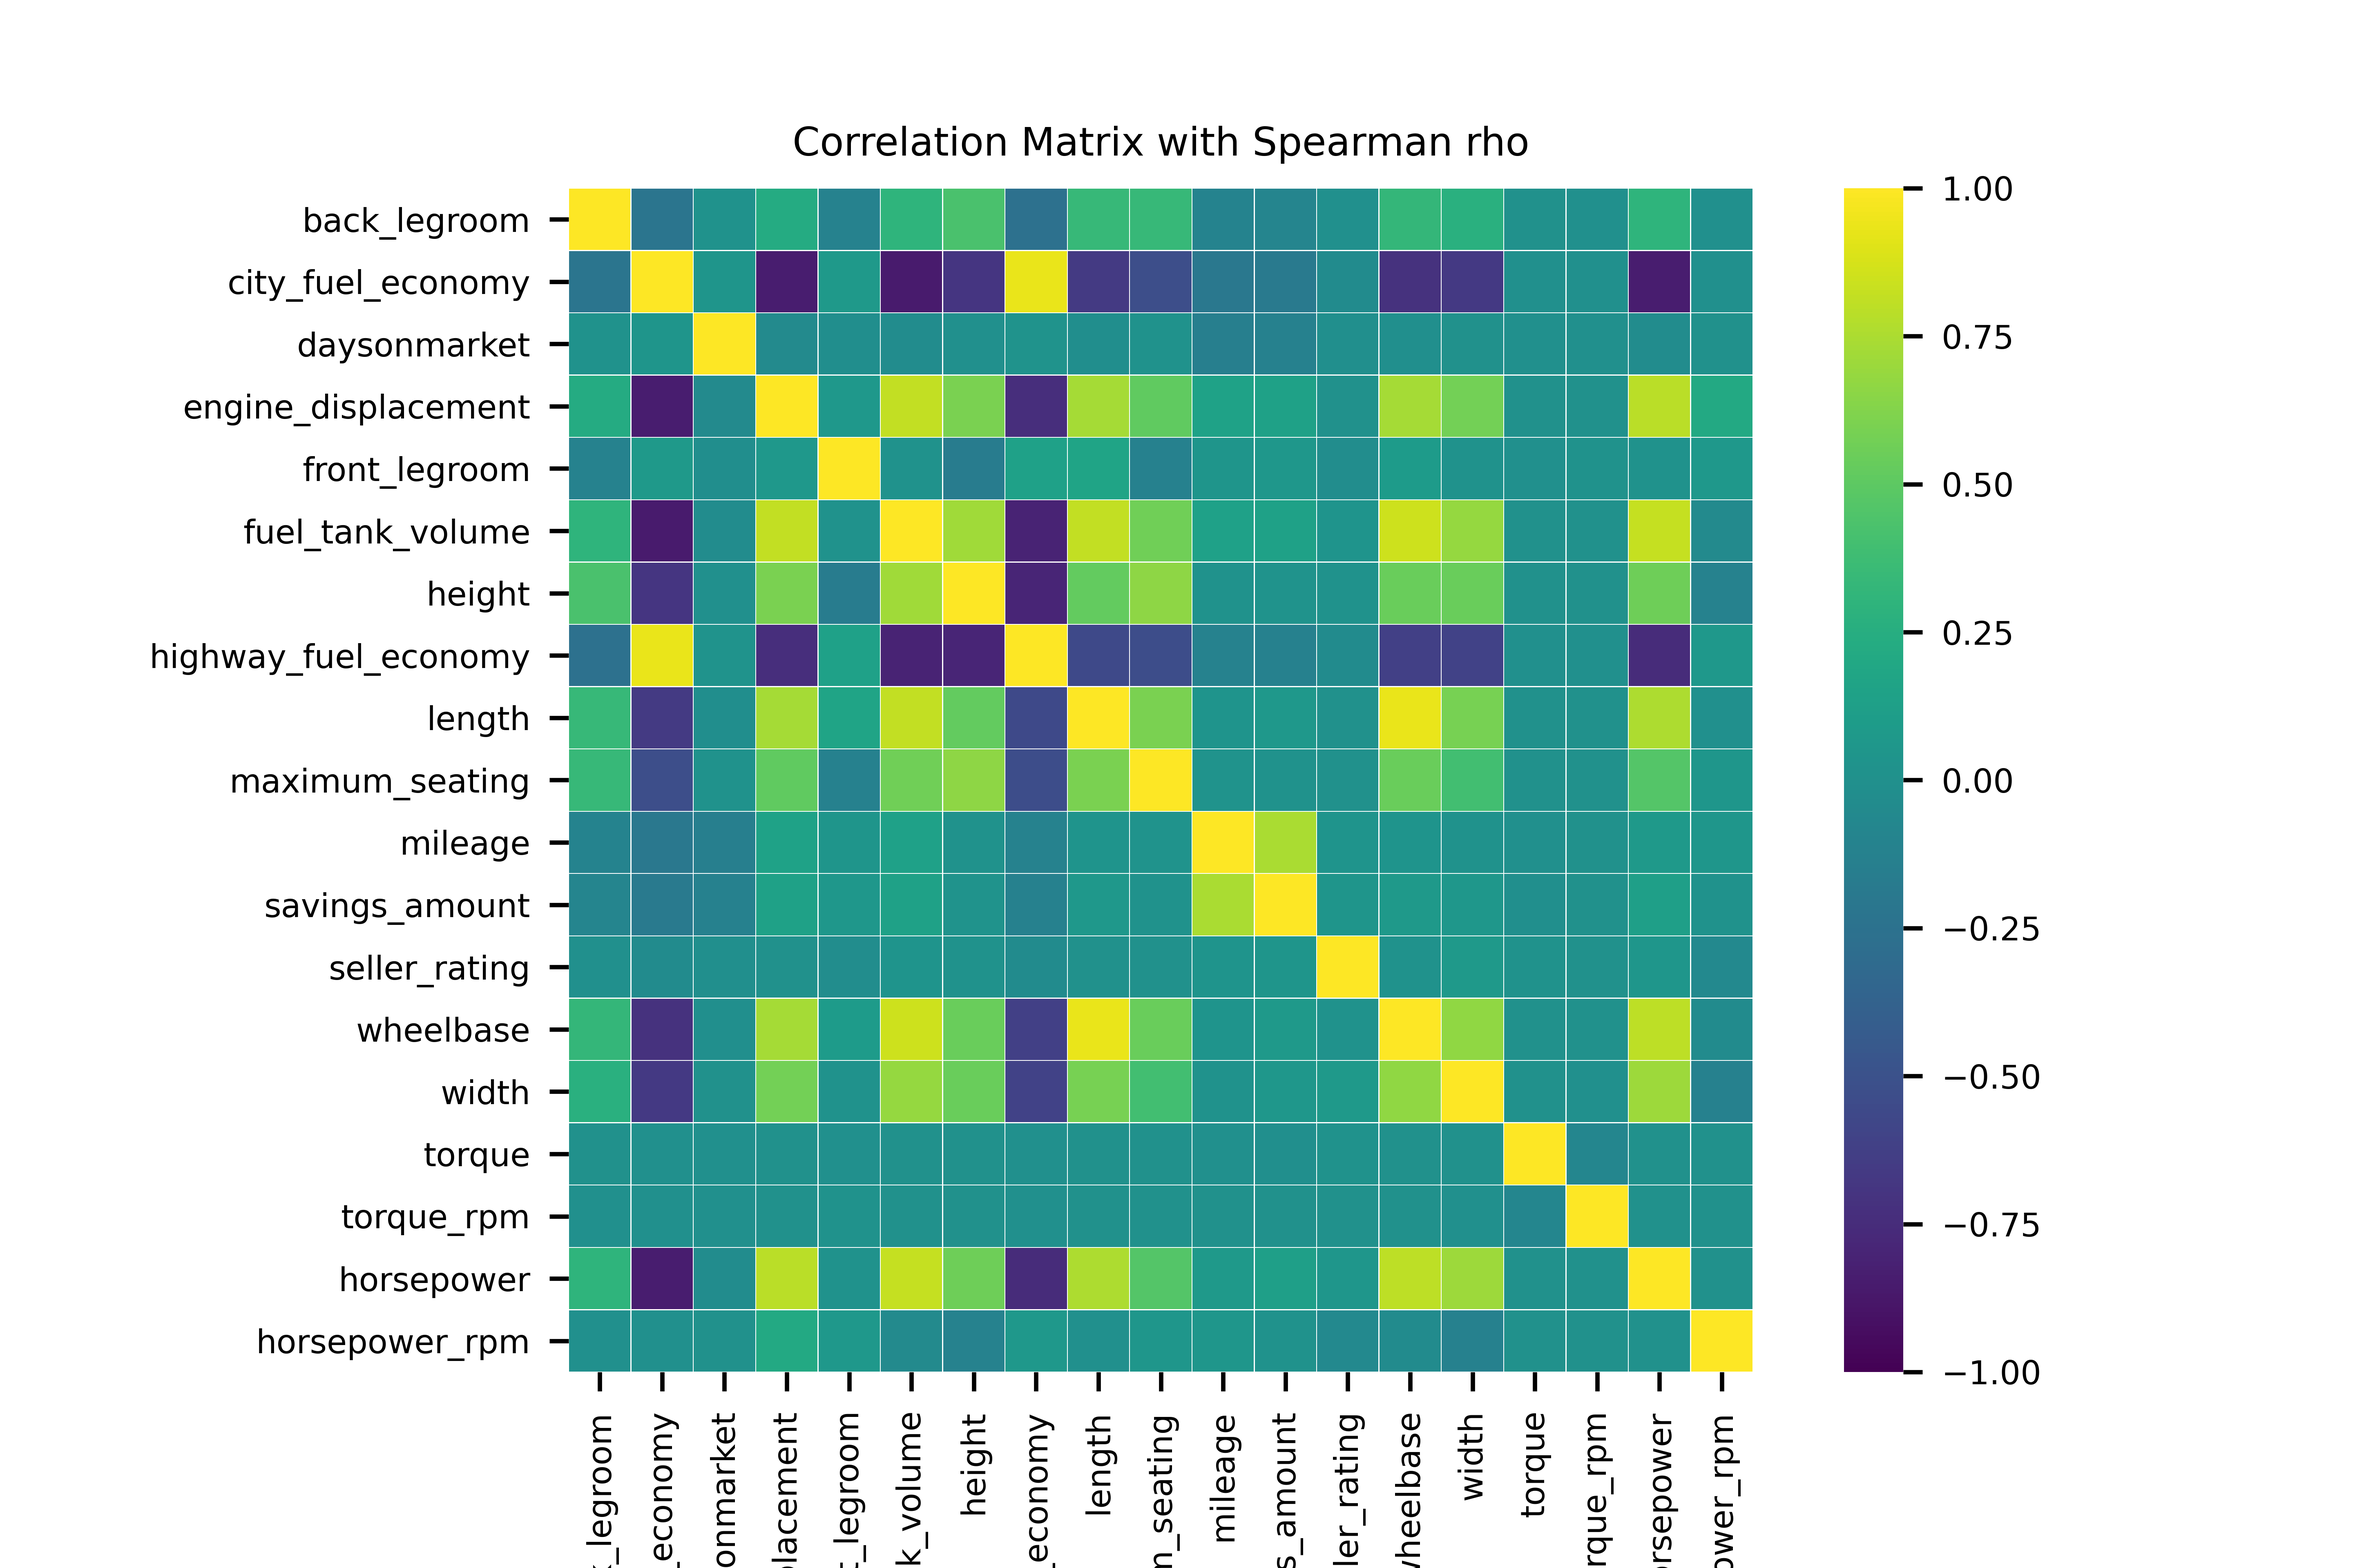
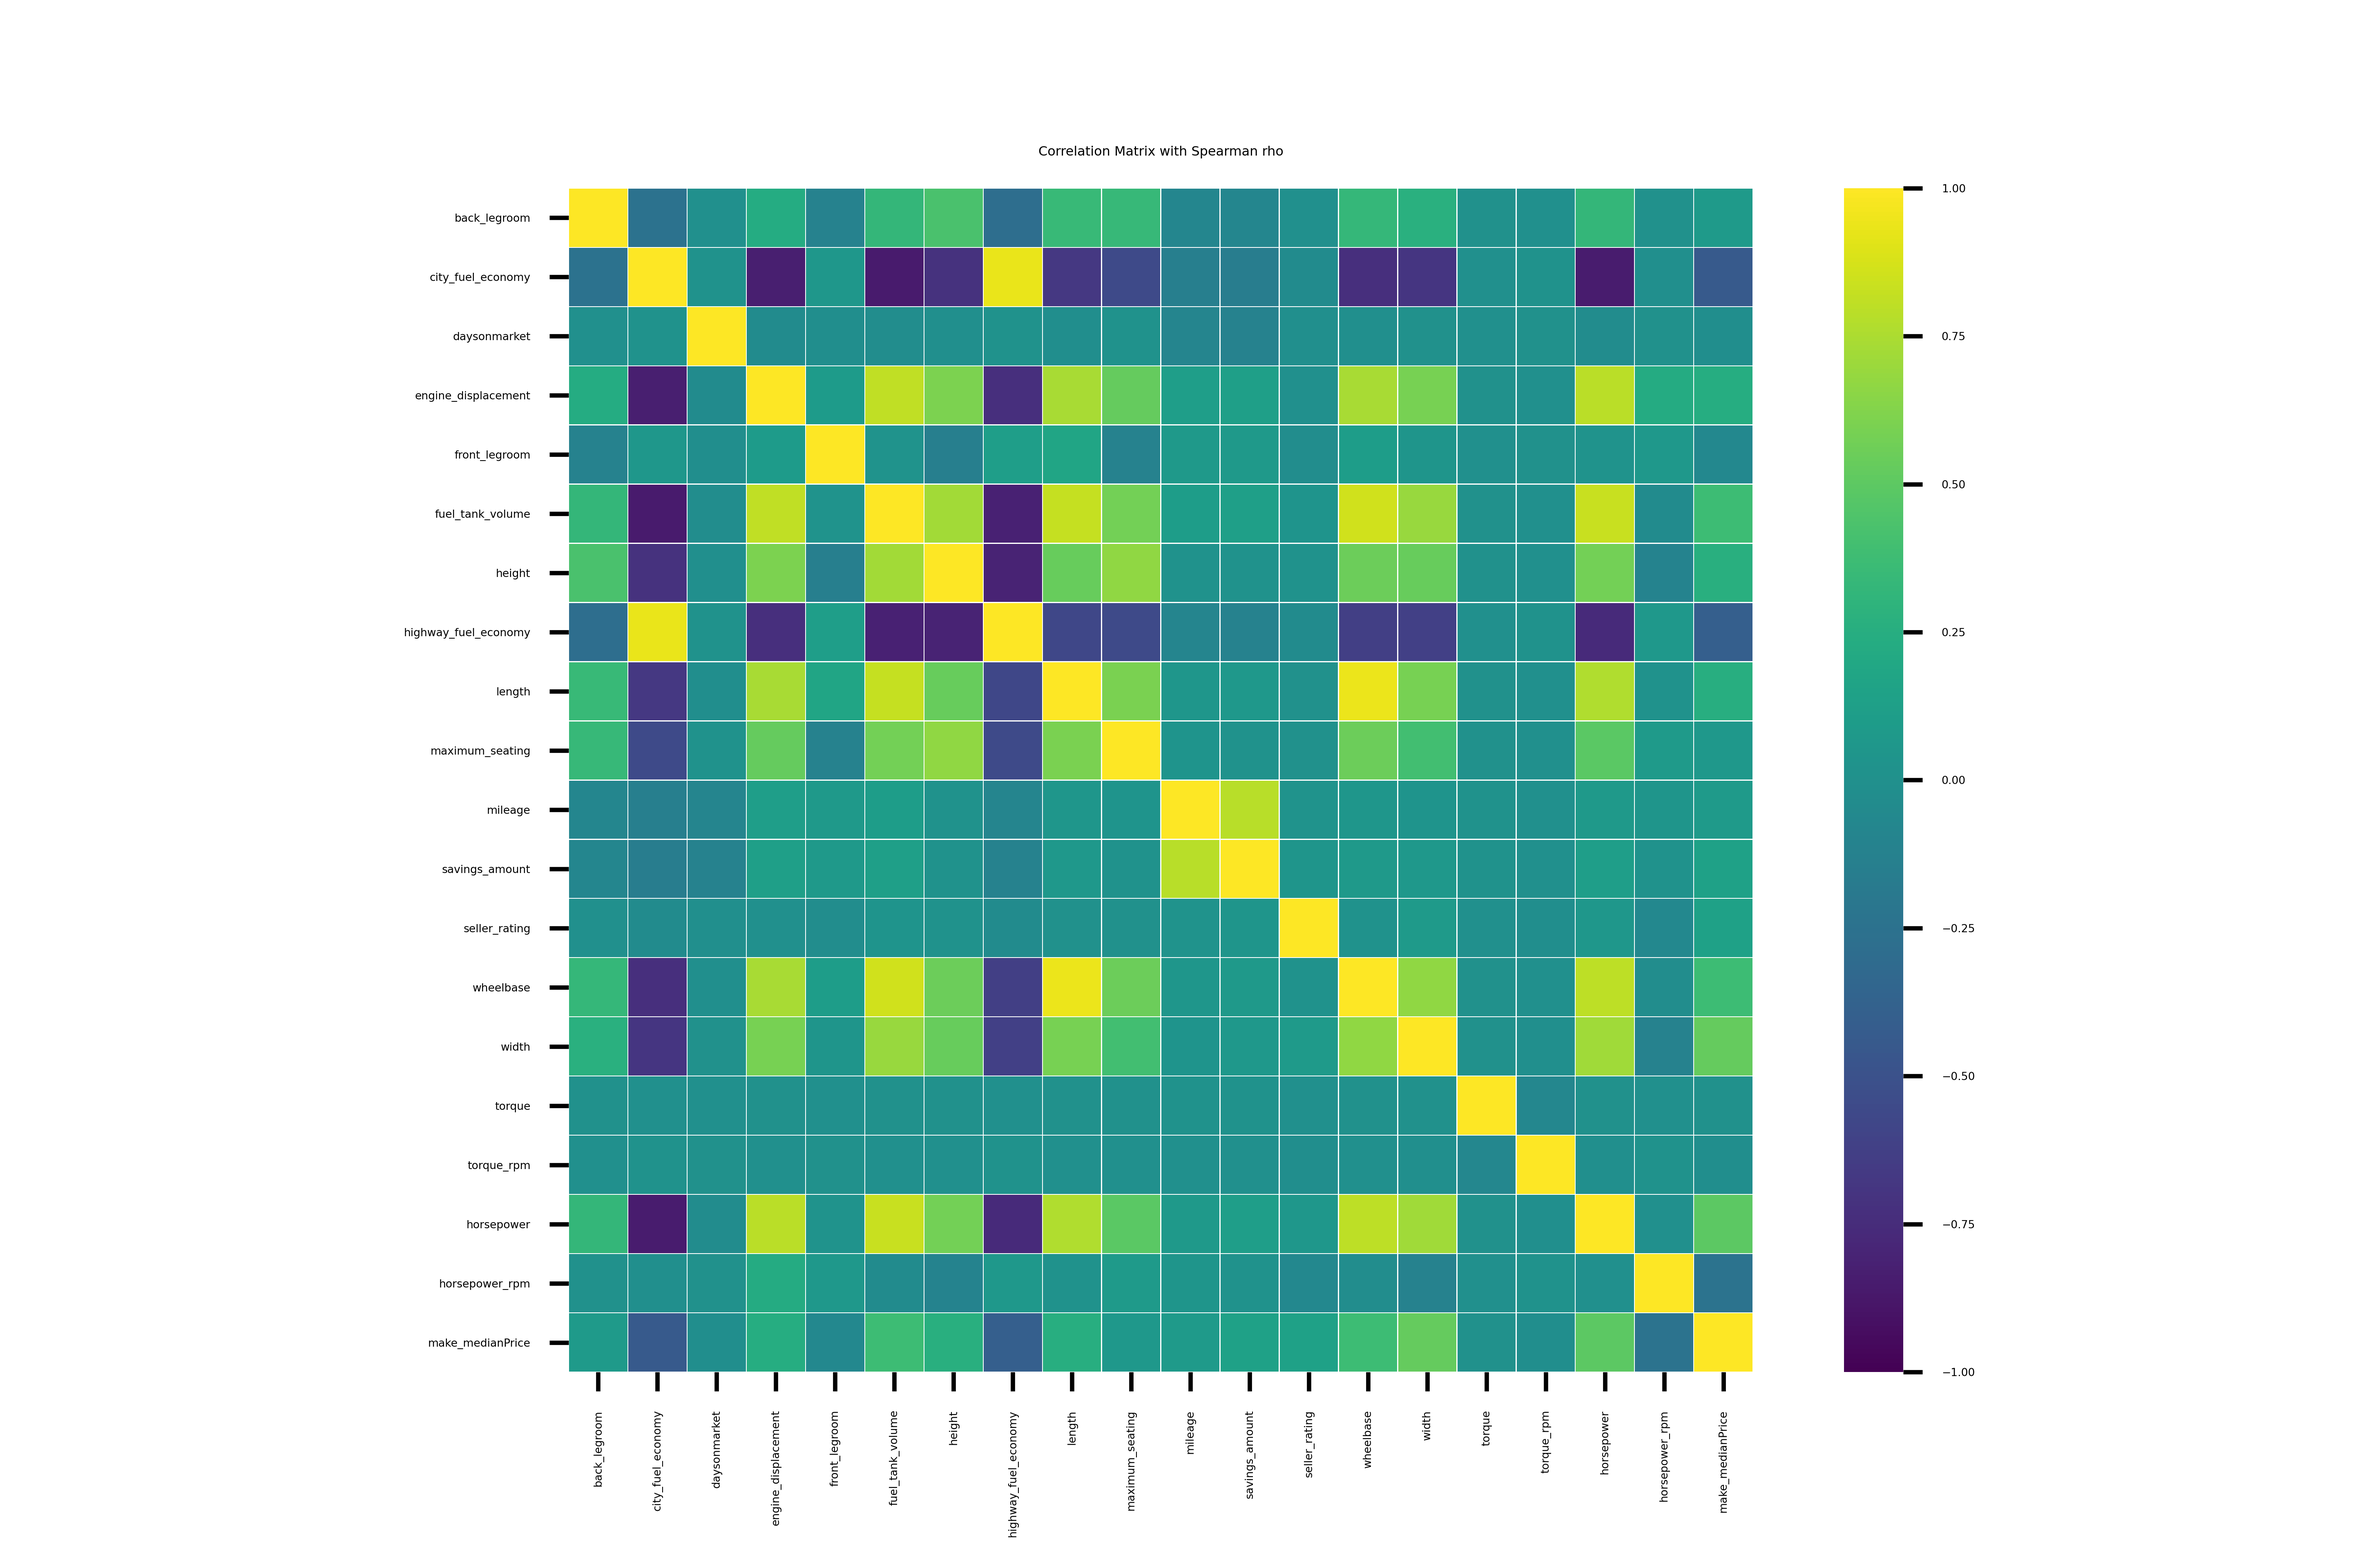
Updated preprocessing/EDA and figures

Changed region(s): [[0.0625, 0.0625, 0.75, 1.0]]

diff --git a/UsedCarPrices_CarGurus_Preprocessing_EDA.py b/UsedCarPrices_CarGurus_Preprocessing_EDA.py
@@ -2,6 +2,7 @@
 """
 @author: aschu
 """
+import random
 import os
 import pandas as pd
 import numpy as np
@@ -11,6 +12,12 @@ from uszipcode import SearchEngine
 
 pd.set_option('display.max_columns', None)
 pd.set_option('display.max_rows', None)
+
+# Set seed 
+seed_value = 42
+os.environ['UsedCarPrices_CarGurus_PreprocessingEDA'] = str(seed_value)
+random.seed(seed_value)
+np.random.seed(seed_value)
 
 print('\nUsed Car Prices from CarGurus Preprocessing & EDA')
 print('======================================================================')
@@ -251,7 +258,7 @@ print('======================================================================')
 print('======================================================================') 
 
 ###############################################################################
-print('\nExamine when the cars were listed ')
+print('\nExamine when the cars were listed:')
 print('\n')
 
 # Convert listed date to monthly
@@ -265,14 +272,14 @@ print('======================================================================')
 
 # Filter data for highest occurrences: June-September 2020
 df = df.loc[(df['listed_date_yearMonth'] >= '2020-06')]
-df = df.drop(['year'], axis=1)
+
 print('\nDimensions after filtering listed_date for highest occurrences: June-September 2020:',
       df.shape) 
 print('======================================================================') 
 print('======================================================================') 
 
 ###############################################################################
-print('\nExamine where the cars were listed due to differences in standard of living')
+print('\nExamine where the cars were listed due to differences in standard of living:')
 print('\n')
 
 print('\nCount of listings in each US state:') 
@@ -305,12 +312,13 @@ df = df.loc[df['price'] <= 50000.0]
 print('\nDimensions after filtering listings <= $50,000:',
       df.shape) 
 print('======================================================================') 
+
 sns.histplot(x=df['price'], kde=True).set_title('Distribution of Price Filtered <= $50,000')
 plt.savefig('EDA_Price_50kOrless.png', dpi=my_dpi * 10, bbox_inches='tight')
 print('======================================================================') 
 
 ###############################################################################
-print('\nExamine categorical variables to see if they should be retained ')
+print('\nExamine categorical variables to see if they should be retained:')
 print('\n')
 df_car_cat = df.select_dtypes(include = 'object')
 df_car_cat = df_car_cat.drop(['city', 'State', 'model_name', 'make_name', 'listing_color'],
@@ -338,12 +346,25 @@ print('\nCount of listings with car color:')
 print(df.listing_color.value_counts(ascending=True)) # Mostly black, UNKNOWN exists
 print('======================================================================') 
 
+# Filter observations with the highest number counts for listing color
+df1 = df['listing_color'].value_counts().index[:7]
+df = df[df['listing_color'].isin(df1)]
+
+del df1
+
+# Remove listings with unknown colors
+df = df.loc[df['listing_color'] != 'UNKNOWN']
+
+print('\nDimensions after filtering observations with the highest number counts for listing color:',
+      df.shape) 
+print('======================================================================') 
+
 # Examine car manufacturer with price
 # Find median price of the manufacturer
 df1 = df.groupby('make_name')['price'].median().reset_index()
 df1.rename(columns={'price': 'make_medianPrice'}, inplace=True)
 print('\nMedian price of the manufacturer:') 
-df1.sort_values('make_medianPrice', ascending=False)
+print(df1.sort_values('make_medianPrice', ascending=False))
 print('======================================================================') 
 
 # Merge data using left join on manufacturer name
@@ -352,10 +373,13 @@ df = pd.merge(df, df1, how='left', left_on=['make_name'],
 df.drop_duplicates()
 
 del df1
+
+# Drop var due to similarity and high dimensionality 
+df = df.drop(['city', 'make_name', 'model_name', 'wheel_system'], axis=1)
 print('======================================================================') 
 
 ###############################################################################
-print('\nExamine quantitative variables to see if they should be retained ')
+print('\nExamine quantitative variables to see if they should be retained:')
 print('\n')
 df_num = df.select_dtypes(include = ['float64', 'int64'])
 
@@ -376,21 +400,29 @@ df_num = df_num.drop(['price'], axis=1)
 corr = df_num.corr(method="spearman") # 
 
 # Plot correlation matrix
-plt.rcParams.update({'font.size': 6})
+plt.rcParams.update({'font.size': 2})
 sns.heatmap(corr, cmap='viridis', vmax=1.0, vmin=-1.0, linewidths=0.1, 
             annot=False, square=True);
 plt.title('Correlation Matrix with Spearman rho')
 plt.savefig('EDA_correlationMatrix_spearman.png', dpi=my_dpi * 10)
 
 # Plot correlation matrix with thresholds
-plt.rcParams.update({'font.size': 6})
+plt.rcParams.update({'font.size': 2})
 sns.heatmap(corr[(corr >= 0.8) | (corr <= -0.8)], 
             cmap='viridis', vmax=1.0, vmin=-1.0, linewidths=0.1,
-            square=True);
+            annot=True, annot_kws={"size": 4}, square=True);
 plt.title('Correlation Matrix with Spearman rho >= 0.8 or <= -0.8')
 plt.savefig('EDA_correlationMatrix_thresholds_spearman.png', dpi=my_dpi * 10)
 
 ###############################################################################
-# Write to pickle
-pd.to_pickle(df, "./210915_UsedCars_Preprocessing.pkl")
+# Drop vars not using for modeling
+drop_columns = ['seller_rating', 'make_medianPrice', 'listed_date']
+df.drop(columns=drop_columns, inplace=True)
+
+print('\nDimensions of data for modeling:', df.shape) 
+print('=====================================================================') 
+###############################################################################
+
+# Write processed data to csv
+df.to_csv('usedCars_final.csv', index=False, encoding='utf-8-sig')
 ###############################################################################
